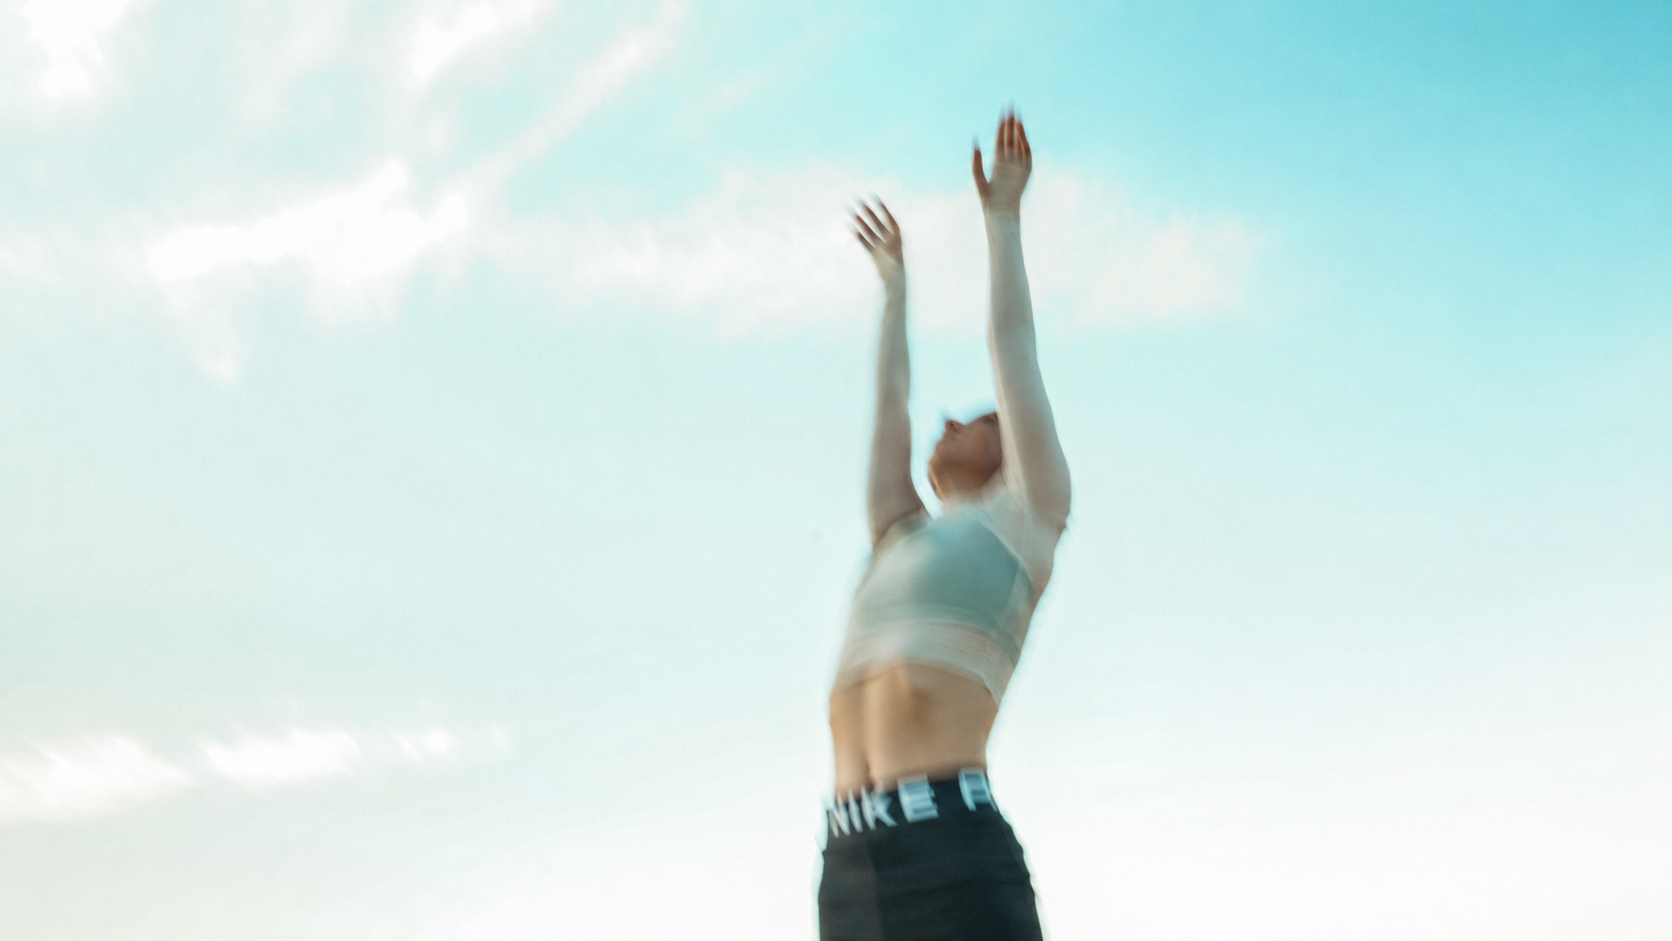
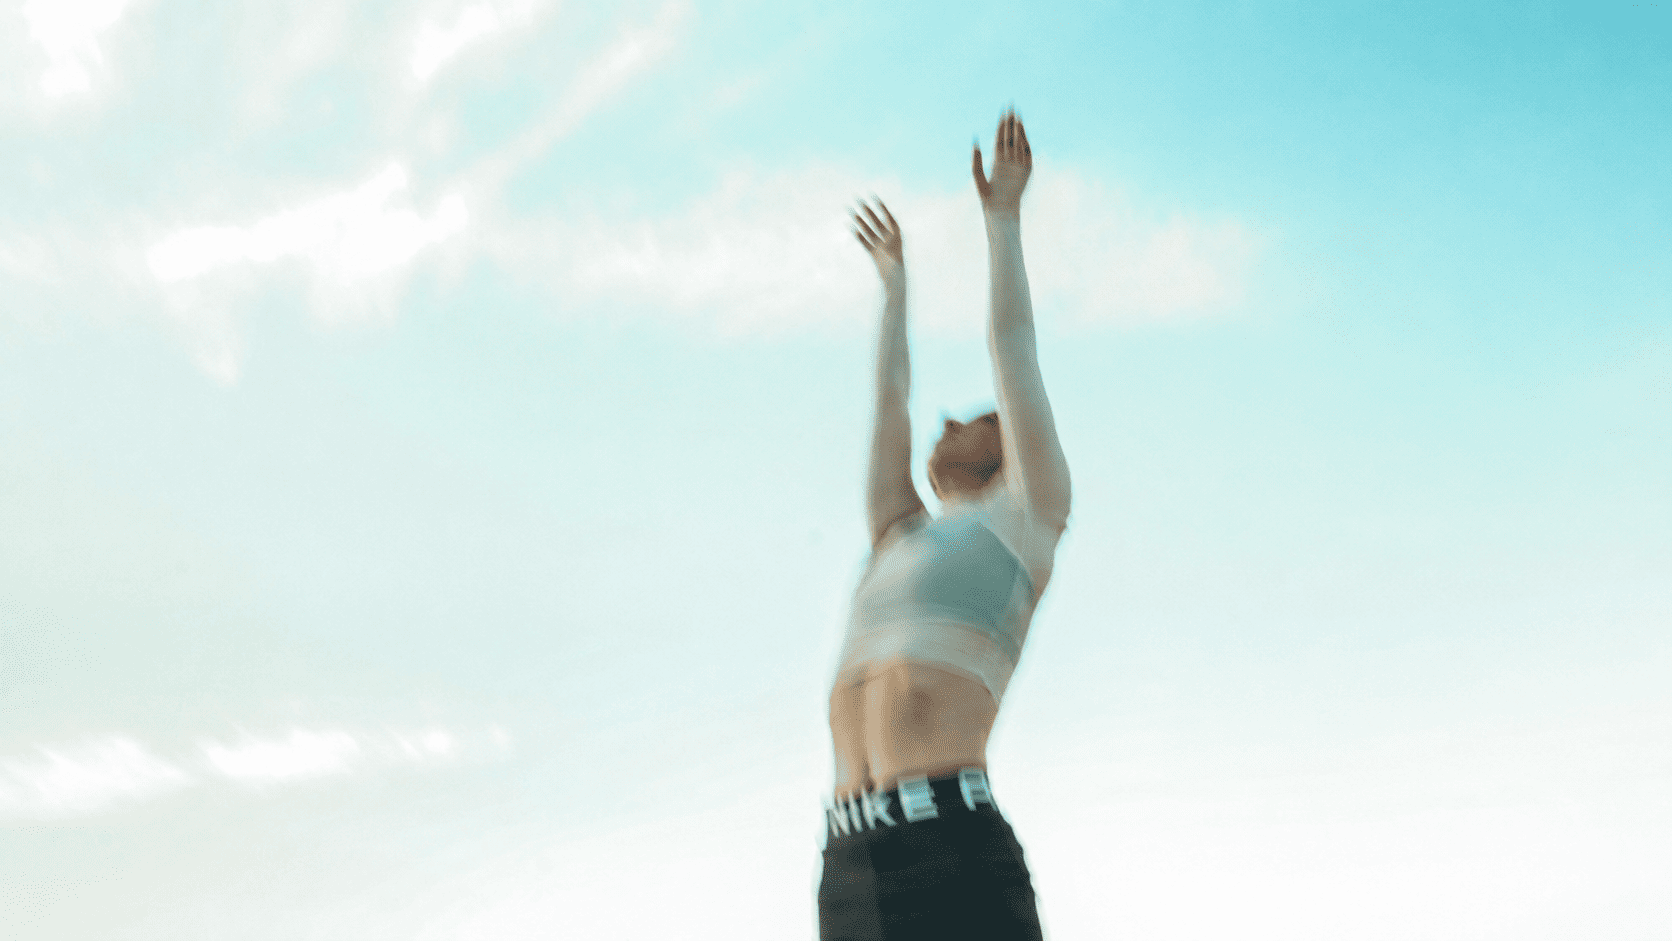
Update text styling in ContactForm, Hero, and CTA components; adjust button hover effect in Memberships and ServiceTabContent; add new images for contact and memberships.

diff --git a/components/landing/Memberships.tsx b/components/landing/Memberships.tsx
@@ -115,7 +115,7 @@ const Memberships = ({ memberships }: { memberships: LandingMembership[] }) => {
                     Si querés más información sobre las experiencias y valores, escribinos por WhatsApp. <br className="hidden sm:block" />
                     Estamos para ayudarte a encontrar tu forma de vivir AYMA.
                 </p>
-                <Button className='bg-primary-500 w-full lg:w-fit text-base px-8 py-6 sm:py-7 flex items-center gap-2 hover:bg-primary-500/80 text-background-100' asChild>
+                <Button className='bg-primary-500 w-full lg:w-fit text-base px-8 py-6 sm:py-7 flex items-center gap-2 hover:bg-primary-500/80! text-background-100' asChild>
                     <Link href="/memberships">Ver todas las membresías</Link>
                 </Button>
             </div>

diff --git a/components/landing/Hero.tsx b/components/landing/Hero.tsx
@@ -20,10 +20,10 @@ const Hero = () => {
 
       <div className="relative z-10 flex h-full items-center px-5 sm:px-8 lg:px-24">
         <div className="flex w-full flex-col gap-12 lg:gap-16">
-          <h1 className="text-7xl uppercase leading-tight text-surface-500">
+          <h1 className="text-4xl lg:text-7xl uppercase leading-tight text-surface-500">
             DONDE COMIENZA LA
             <br />
-            REVOLUCIÓN DEL BIENESTAR.
+            REVOLUCIÓN DEL <span className="font-medium italic">BIENESTAR</span>.
           </h1>
 
           <div className="flex flex-col items-start gap-8 lg:flex-row lg:items-end lg:justify-between">

diff --git a/components/landing/CTA.tsx b/components/landing/CTA.tsx
@@ -4,7 +4,7 @@ const CTA = () => {
       id="cta"
       className="relative flex items-center justify-center overflow-hidden bg-roca-500 h-screen min-h-[520px] sm:min-h-[560px] px-6 sm:px-8"
     >
-      <div className="flex w-1/2 flex-col items-center justify-center gap-8 text-center">
+      <div className="flex w-full md:w-3/4 lg:w-1/2 flex-col items-center justify-center gap-8 text-center">
         <p className="text-xl font-bold text-surface-500">
           AYMA es un club de wellness basado en The Ayma Method®, un método integral que combina movimiento, temperatura y recuperación.
         </p>

diff --git a/components/contact/ContactForm.tsx b/components/contact/ContactForm.tsx
@@ -63,7 +63,7 @@ const ContactForm = () => {
           <i>
             <b>BIENESTAR</b>
           </i>{" "}
-          SE VUELVE HÁBITO, TODO CAMBIA, ESTO ES LA <i><b>REVOLUCIÓN</b></i>.
+          SE VUELVE HÁBITO, TODO CAMBIA, ESTO ES LA <span className="font-medium italic">REVOLUCIÓN</span>.
         </h3>
         <p className="max-w-xl mt-6 lg:mt-0 text-2xl font-normal text-surface-500">
           Conectá con nosotros por consultas o asesoramiento personalizado.

diff --git a/components/services/ServiceTabContent.tsx b/components/services/ServiceTabContent.tsx
@@ -70,7 +70,7 @@ const ServiceTabContent = ({
         {showDownloadButton && (
           <Button
             asChild
-            className="h-auto shrink-0 rounded-[8px] bg-primary-500 px-5 py-4 text-background-500 hover:bg-primary-500/90"
+            className="h-auto shrink-0 rounded-[8px] bg-primary-500 px-5 py-4 text-background-500 hover:bg-primary-500/90!"
           >
             <a
               href={CRONOGRAMA_PDF_URL}
